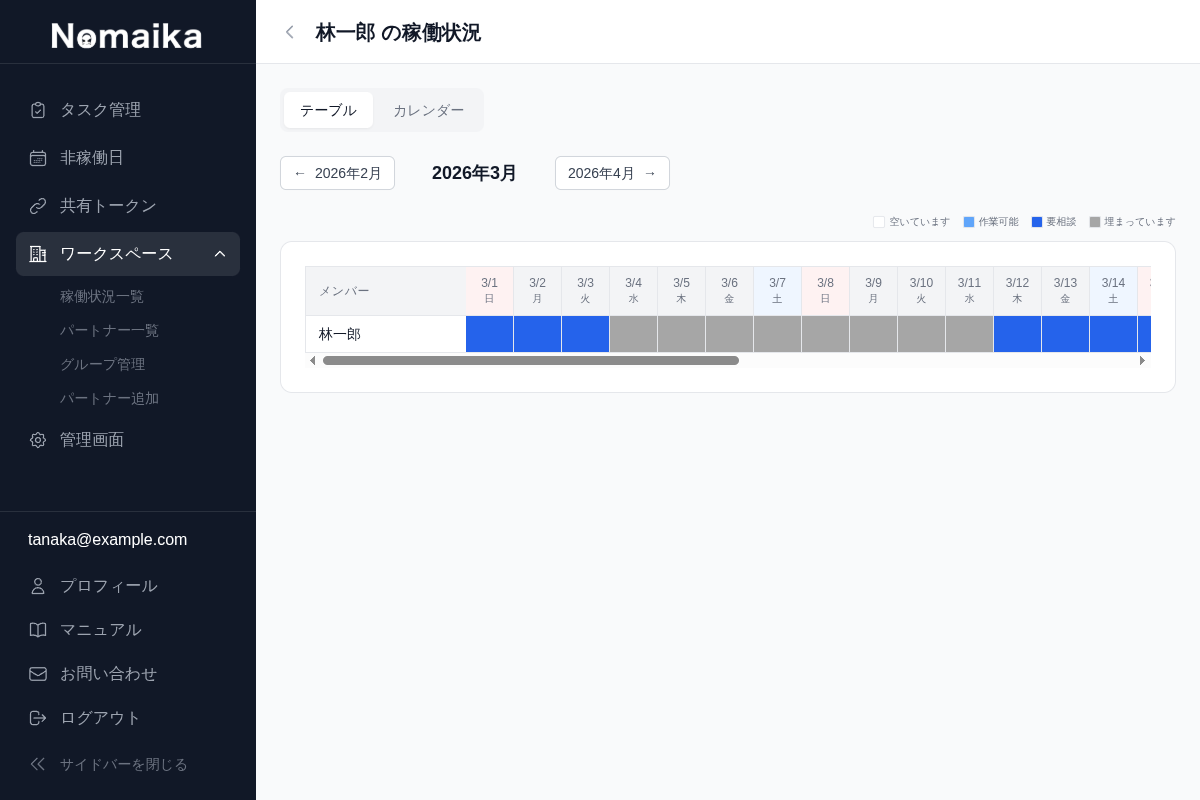
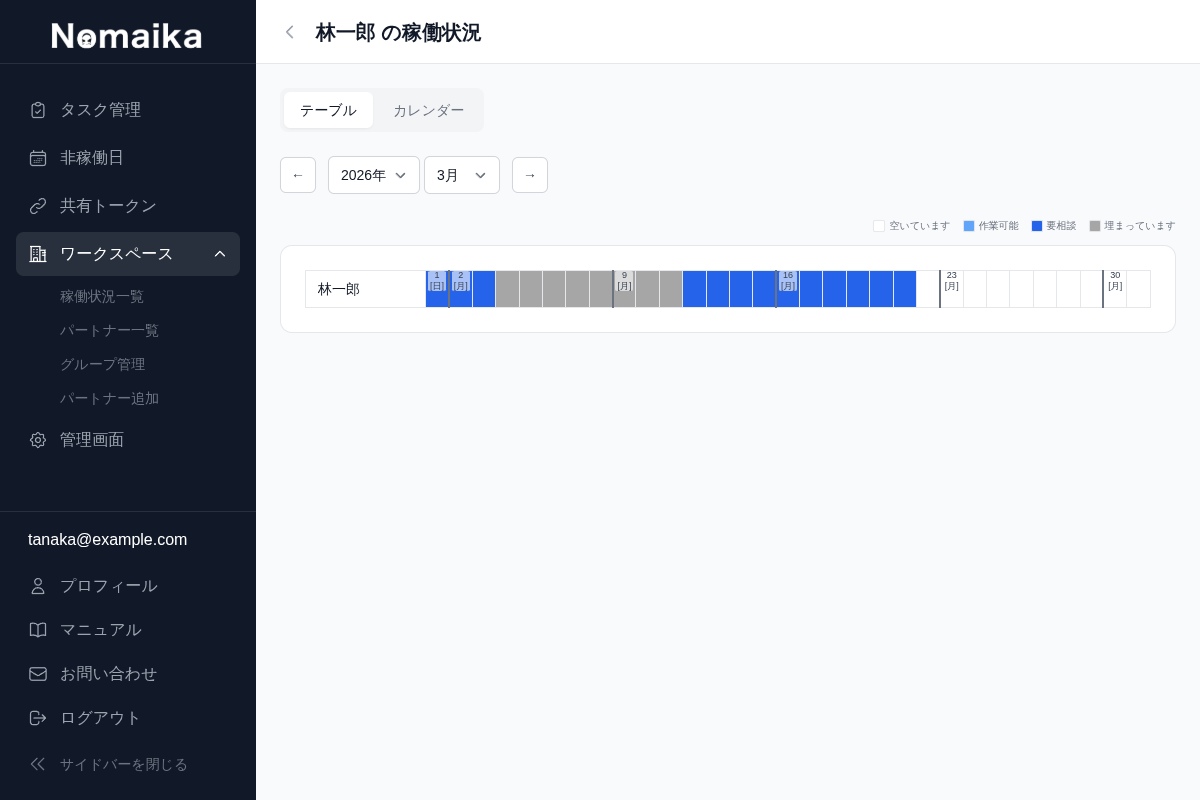
稼働状況表示の仕様変更に合わせて本文とスクショを更新
稼働率の%表示から4段階のステータス表示（空いています/作業可能/
要相談/埋まっています）への変更と、年月セレクトボックスの追加を反映。

diff --git a/docs/workspace/workload.md b/docs/workspace/workload.md
@@ -5,13 +5,31 @@
 ワークスペースの「**稼働状況一覧**」タブでは、登録済みの全パートナーの稼働状況をテーブル形式で一覧表示します。
 
 - **グループヘッダー**: パートナーがグループ分けされている場合、グループ名が行として表示されます
-- **パートナー行**: 各パートナーの日別合計稼働率が表示されます
-- **色の濃淡**: 稼働率が高いほど色が濃くなります
-- **赤色表示**: 稼働率が100%以上の日
+- **パートナー行**: 各パートナーの日別の稼働ステータスが色で表示されます
+- **ステータス色**: 稼働率に応じて4段階のステータス色でセルが塗り分けられます
 
-月の切り替えは画面上部の「**← 前月**」「**次月 →**」で行えます。
+月の切り替えは画面上部の「**←**」「**→**」ボタン、または年・月のセレクトボックスから行えます。
 
 ![稼働状況一覧](/images/workspace-workload.png)
+
+## 稼働ステータスの読み方
+
+稼働率に応じて、以下の4つのステータスで表示されます。
+
+| ステータス | 稼働率 | 意味 |
+|--------|--------|------|
+| 空いています | 0〜45% | 十分な空き枠があります |
+| 作業可能 | 46〜75% | 作業をお引き受けできます |
+| 要相談 | 76〜95% | 軽微な作業のみ対応可能です |
+| 埋まっています | 96%以上 | 稼働枠が埋まっています |
+
+::: tip
+稼働率にはタスクの工数と非稼働日の両方が含まれます。例えば、タスク工数60% + 非稼働日40% = 表示上100%（埋まっています）となります。
+:::
+
+::: info プライバシーへの配慮
+稼働状況一覧では具体的な稼働率（%）は表示されず、ステータスのみが共有されます。パートナーのタスク名、案件名、クライアント名などの詳細情報も一切表示されません。
+:::
 
 ## 個別パートナーの稼働状況
 
@@ -19,18 +37,4 @@
 
 ![個別パートナーの稼働状況](/images/workspace-show.png)
 
-::: info 表示される情報
-共有ページでは**合計稼働率のみ**が表示されます。パートナーのタスク名、案件名、クライアント名などの詳細情報は一切表示されません。
-:::
-
-## 稼働率の読み方
-
-| 稼働率 | 意味 |
-|--------|------|
-| 0% | 完全に空いている |
-| 50% | 半日程度の空きがある |
-| 100%以上 | 稼働枠が埋まっている（赤色で警告） |
-
-::: tip
-稼働率にはタスクの工数と非稼働日の両方が含まれます。例えば、タスク工数60% + 非稼働日40% = 表示上100%（稼働枠なし）となります。
-:::
+個別ビューでは「**テーブル**」「**カレンダー**」の2つの表示形式を切り替えできます。
